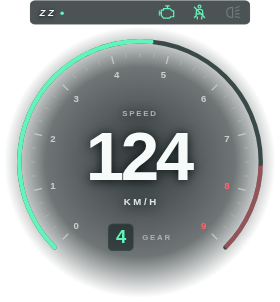
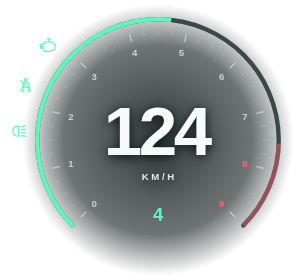
Reduce telemetry overhead and simplify dial layout
Combine RPM and speed into one 100-ms update, remove the separate fast worker, and keep browser interpolation. Reduce belt blocking to one native per frame with shared vehicle validation. Place unboxed icons along the dial and remove branding and captions.

diff --git a/web/style.css b/web/style.css
@@ -19,18 +19,19 @@ html, body { margin: 0; width: 100%; height: 100%; overflow: hidden; background:
 body { user-select: none; }
 [hidden] { display: none !important; }
 .icon-library { position: absolute; width: 0; height: 0; overflow: hidden; }
-.hud { position: fixed; right: calc(var(--right) + var(--safe-x)); bottom: calc(var(--bottom) + var(--safe-y)); width: 320px; height: 345px; transform: scale(calc(var(--scale) * .875)); transform-origin: bottom right; pointer-events: none; font-variant-numeric: tabular-nums; }
-.status-row { position: absolute; inset: 0 34px auto; height: 28px; padding: 0 10px; display: flex; justify-content: space-between; align-items: center; background: #071012b8; border: 1px solid #b9d1ca12; border-radius: 6px; }
-.wordmark { font-size: 11px; font-weight: 800; font-style: italic; letter-spacing: 3px; text-shadow: 0 1px 5px #000; }
-.wordmark-dot { display: inline-block; width: 4px; height: 4px; margin-left: 5px; background: var(--accent); border-radius: 50%; vertical-align: middle; }
-.indicators { display: flex; align-items: center; gap: 17px; }
-.indicator { display: flex; color: #82918e; opacity: .65; }
+.hud { position: fixed; right: calc(var(--right) + var(--safe-x)); bottom: calc(var(--bottom) + var(--safe-y)); width: 340px; height: 320px; transform: scale(calc(var(--scale) * .875)); transform-origin: bottom right; pointer-events: none; font-variant-numeric: tabular-nums; }
+.indicators { position: absolute; inset: 0; }
+.indicator { position: absolute; display: flex; color: #82918e; opacity: .65; }
+/* Unboxed icons follow the outside of the left arc; positions stay fixed on bikes. */
+#engine { left: 25px; top: 42px; }
+#belt { left: -1px; top: 88px; }
+#lights { left: -10px; top: 140px; }
 .indicator svg { width: 20px; height: 20px; fill: none; stroke: currentColor; stroke-width: 1.7; stroke-linecap: round; stroke-linejoin: round; }
 .indicator.active { color: var(--accent); opacity: 1; }
 #engine.active { color: #62f5bb; }
 .indicator.warning { color: var(--warning); opacity: 1; }
 .indicator.high { color: #78baff; opacity: 1; }
-.instrument { position: absolute; top: 25px; left: 0; width: 320px; height: 320px; }
+.instrument { position: absolute; top: 0; left: 20px; width: 320px; height: 320px; }
 .dial { display: block; width: 100%; height: 100%; overflow: visible; }
 .arc-track { stroke: #203331; stroke-opacity: .85; stroke-width: 5; stroke-linecap: round; }
 .red-zone { stroke: var(--danger); stroke-opacity: .45; stroke-width: 5; }
@@ -41,12 +42,11 @@ body { user-select: none; }
 .tick.major { stroke-opacity: .65; stroke-width: 1.5; }
 .tick-label { fill: #c3d3ce; font-size: 11px; font-weight: 600; text-anchor: middle; dominant-baseline: central; }
 .tick-label.red { fill: var(--danger); }
-.speed-block { position: absolute; top: 93px; width: 100%; text-align: center; text-shadow: 0 2px 12px #071012; }
-.overline { color: var(--muted); font-size: 9px; letter-spacing: 2px; font-weight: 600; }
+.speed-block { position: absolute; top: 108px; width: 100%; text-align: center; text-shadow: 0 2px 12px #071012; }
 .speed { margin: 1px 0 0; height: 82px; line-height: 82px; font-size: 79px; font-weight: 700; letter-spacing: -4px; padding-right: 4px; }
 .unit { display: block; font-size: 11px; font-weight: 600; letter-spacing: 3px; color: #dce8e4; margin-top: 5px; padding-left: 3px; }
-.gear-block { position: absolute; top: 230px; width: 100%; display: flex; align-items: center; justify-content: center; gap: 9px; }
-.gear { font-size: 21px; font-weight: 600; line-height: 30px; min-width: 30px; text-align: center; color: var(--accent); border: 1px solid #57736766; border-radius: 6px; background: #07151288; }
+.gear-block { position: absolute; top: 230px; width: 100%; display: flex; align-items: center; justify-content: center; }
+.gear { font-size: 21px; font-weight: 600; line-height: 30px; min-width: 30px; text-align: center; color: var(--accent); }
 
 
 .indicator.damaged { color: var(--danger); opacity: 1; }

diff --git a/web/index.html b/web/index.html
@@ -15,16 +15,12 @@
   </svg>
 
   <main id="hud" class="hud" hidden aria-label="Vehicle instruments">
-    <div class="status-row">
-      <span class="wordmark">ZZ<span class="wordmark-dot"></span></span>
-      <div id="indicators" class="indicators">
-        <span id="engine" class="indicator" role="img" aria-label="Engine off" title="Engine"><svg><use href="#icon-engine"/></svg></span>
-        <span id="belt" class="indicator" role="img" aria-label="Seatbelt unfastened" title="Seatbelt"><svg><use href="#icon-belt"/></svg></span>
-        <span id="lights" class="indicator" role="img" aria-label="Lights off" title="Lights"><svg><use href="#icon-light"/></svg></span>
-      </div>
-    </div>
-
     <div class="instrument">
+      <div id="indicators" class="indicators">
+        <span id="engine" class="indicator" role="img" aria-label="Engine off"><svg><use href="#icon-engine"/></svg></span>
+        <span id="belt" class="indicator" role="img" aria-label="Seatbelt unfastened"><svg><use href="#icon-belt"/></svg></span>
+        <span id="lights" class="indicator" role="img" aria-label="Lights off"><svg><use href="#icon-light"/></svg></span>
+      </div>
       <svg class="dial" viewBox="0 0 320 320" aria-hidden="true">
         <defs><radialGradient id="dial-shade"><stop offset="0" stop-color="#071012" stop-opacity=".82"/><stop offset=".7" stop-color="#071012" stop-opacity=".58"/><stop offset="1" stop-color="#071012" stop-opacity="0"/></radialGradient></defs>
         <circle cx="160" cy="160" r="155" fill="url(#dial-shade)"/>
@@ -37,11 +33,10 @@
         <g id="ticks"></g>
       </svg>
       <div class="speed-block">
-        <span class="overline">SPEED</span>
         <div id="speed" class="speed">0</div>
         <span id="unit" class="unit">KM/H</span>
       </div>
-      <div class="gear-block"><span id="gear" class="gear">N</span><span class="overline">GEAR</span></div>
+      <div class="gear-block"><span id="gear" class="gear">N</span></div>
     </div>
 
   </main>

diff --git a/tests/test_ui.py b/tests/test_ui.py
@@ -308,7 +308,7 @@ class HudTests(unittest.TestCase):
         finally:
             outside.close()
 
-    def test_original_status_row_reflects_vehicle_states(self):
+    def test_unboxed_side_icons_reflect_vehicle_states(self):
         self.send(action="visibility", visible=True)
         self.send(action="telemetry", engine=True, engineWarning=False, beltAvailable=True, belt=True, lights=0)
         self.assertTrue(self.page.locator("#indicators").is_visible())
@@ -327,7 +327,7 @@ class HudTests(unittest.TestCase):
         box = self.page.locator("#hud").bounding_box()
         self.assertLess(box["width"], 300)
         self.assertLess(box["height"], 330)
-        self.assertEqual(self.page.locator(".wordmark").count(), 1)
+        self.assertEqual(self.page.locator(".wordmark, .status-row, .overline").count(), 0)
         self.assertEqual(self.page.locator(".rpm-caption, .fuel, #rpm-value").count(), 0)
         self.assertEqual(self.page.locator(".tick-label").count(), 10)
 
@@ -421,8 +421,18 @@ class HudTests(unittest.TestCase):
                 speed = self.page.locator("#speed").bounding_box()
                 gear = self.page.locator(".gear-block").bounding_box()
                 self.assertLess(speed["y"] + speed["height"], gear["y"])
-                icons = self.page.locator("#indicators").bounding_box()
-                self.assertLess(icons["y"] + icons["height"], speed["y"])
+                dial = self.page.locator(".dial").bounding_box()
+                icon_boxes = [self.page.locator("#" + name).bounding_box() for name in ["engine", "belt", "lights"]]
+                self.assertLess(icon_boxes[0]["y"], icon_boxes[1]["y"])
+                self.assertLess(icon_boxes[1]["y"], icon_boxes[2]["y"])
+                self.assertGreater(icon_boxes[0]["x"], icon_boxes[1]["x"])
+                self.assertGreater(icon_boxes[1]["x"], icon_boxes[2]["x"])
+                for icon in icon_boxes:
+                    self.assertGreaterEqual(icon["x"], box["x"])
+                    self.assertLess(icon["x"] + icon["width"], dial["x"] + dial["width"] / 2)
+                for selector in ["#indicators", ".gear", "#engine", "#belt", "#lights"]:
+                    css = self.page.locator(selector).evaluate("e => {const s=getComputedStyle(e);return [s.backgroundColor,s.borderTopWidth]}")
+                    self.assertEqual(css, ["rgba(0, 0, 0, 0)", "0px"])
 
 
 

diff --git a/PERFORMANCE.md b/PERFORMANCE.md
@@ -1,53 +1,45 @@
-# zz-speedomter 1.3.0 review
+# zz-speedomter 1.4.0 performance review
+
+## Changes prompted by the reported 0.14-ms cost
+
+Version 1.3.0 added an independent 16-ms RPM worker to prioritize smoothness. Version 1.4.0 removes it. One loop now reads RPM, speed and gear every 100 ms and combines changes into one telemetry packet. Browser interpolation still draws intermediate arc positions. Half-percent RPM precision avoids tiny idle fluctuations triggering messages.
+
+The seatbelt frame loop now contains only the required `DisableControlAction` call. Vehicle, seat and death validation use the shared vehicle poll. Forced exits or vehicle changes may retain exit suppression until that poll, up to 100 ms by default. Normal unbuckling stops the loop immediately on its next iteration.
 
 ## Verified locally
 
-- **63 Lua checks**, running the real client script in Lua 5.4 with deterministic scheduling and mocked FiveM natives.
-- **22 Chromium tests**, running the actual NUI and its message protocol.
+- **65 Lua checks** execute the client script with real Lua 5.4 and mocked FiveM natives.
+- **22 Chromium tests** exercise the actual UI, including smooth interpolation, side-icon placement, absence of boxes/captions, engine damage colors and embedded canvas transparency.
 - JavaScript syntax and Git whitespace checks.
-- Embedded-browser pixel regression: no opaque grey layer before, during, or after HUD visibility.
-- Visual inspection and recorded RPM motion use browser renders with mocked data, not GTA screenshots.
+- Preview images use mocked telemetry, not GTA screenshots.
 
-## Work budget
+| Work | Version 1.3.0 | Version 1.4.0 |
+| --- | --- | --- |
+| Default RPM reads over 10 simulated seconds | 625 | 100 (84% fewer) |
+| Separate RPM entity checks | One per RPM iteration | None |
+| Telemetry messages when RPM and speed keep changing | Separate RPM and main packets | At most one per 100-ms tick |
+| Active telemetry workers | Two | One |
+| Belt worker native calls per frame | Two | One |
+| Light/health polling | Every 500 ms | Every 500 ms |
+| Fuel work | None | None |
 
-| State | Verified behavior |
-| --- | --- |
-| On foot | One vehicle-detection loop, 750-ms sleeps, no RPM or fuel reads |
-| Visible vehicle | Independent 100-ms speed/gear/eligibility and 16-ms RPM workers |
-| Health and lights | 500-ms polling; engine running state checked by the 100-ms loop |
-| 10-second unchanged simulation | 100 speed reads, 625 RPM reads, 20 light reads, zero fuel reads and no repeated telemetry messages |
-| Moving RPM | 0.01-percent detail, sent as RPM-only packets; other fields keep their slower cadence |
-| Hidden/paused/suppressed | Fast RPM sampler exits; browser animation cancels |
-| Temporary invalid vehicle | RPM worker stops safely and restarts after validation |
-| Rapid hide/show | At most one active RPM worker |
-| Fuel and legacy fuel providers | No native calls, provider calls or telemetry fields |
-| Belt exit blocking | Two native calls per frame; no belt worker when unbelted or exit blocking disabled |
-| Vehicle class | Cached per observed vehicle |
-| Parked, engine off | No RPM, reverse-vector or gear reads |
-| Stable lights off / low / high | Equal light polling; no repeated light packets or additional animation |
-| Browser RPM motion | One frame callback, preserving position and velocity across targets |
-| 30 / 60 / 144 Hz simulated frames | Matching progress at equal elapsed time |
-| Settled / hidden / backgrounded | No continuing RPM animation callbacks |
-| Repeated messages/config | No extra DOM writes from duplicate handling; ticks rebuilt only if dial scale changes |
+The 10-second unchanged-state test observes 100 speed reads, 100 RPM reads, 20 light reads and zero repeated telemetry packets. Changing speed and RPM together produces exactly 100 packets over 10 simulated seconds. Lights off, low beams and high beams have the same polling/message behavior in the fixture. These are native-call and message counts, not measured in-game milliseconds.
 
-These are native-call/message counts from simulations, not measured in-game CPU times. The main and RPM workers reuse state and send changes only. The dedicated RPM sampler adds native calls and potentially more local NUI messages than version 1.2.0. This is an intentional smoothness tradeoff, not a claim of lower total CPU time. Game frame scheduling determines the actual cadence. `Config.RpmInterval = 33` or `50` reduces RPM sampling while retaining interpolation.
+On foot, vehicle detection sleeps 750 ms. Hidden/paused/suppressed HUDs skip telemetry reads. Parked vehicles skip reverse-vector reads; engine-off vehicles skip RPM and gear reads. Vehicle class is cached. No belt worker runs while unbelted or when `Seatbelt.blockExit = false`. Old `RpmInterval = 16` configs cannot re-enable the removed worker.
 
-The browser uses exact critically damped motion with a 20-ms spring time scale. Position and velocity continue across new targets. The displayed range is clamped to 0–100 percent; abrupt target changes can retain a small amount of motion before reversing. Once both error and velocity are negligible, the arc snaps to its target and the callback stops. Reduced motion bypasses the animation. Other UI elements are not redrawn by the frame callback.
-
-The seatbelt worker still uses one current-vehicle check and one player exit-control suppression per frame. Main polling handles death and driver eligibility. See the [official native reference](https://github.com/citizenfx/natives/blob/master/PAD/DisableControlAction.md) for the per-frame control requirement. Its native-call budget is reduced from the original five to two; this is not a measured 60% reduction in total resource CPU time.
+Browser motion uses one on-demand frame callback and exact critically damped interpolation. It preserves position and velocity across samples, behaves consistently at 30/60/144 Hz, and stops when settled, hidden or backgrounded. Reduced-motion mode snaps to readings. The dial range remains bounded to 0–100 percent; abrupt target changes can retain a little motion before reversing. Tick marks and unchanged labels are not rewritten every frame.
 
 ## Visual checks
 
-- Detailed dial, speed, gear, status icons and ZZ wordmark retained.
-- Fuel meter, fuel icon, bottom RPM readout and RPM explanation removed from the HTML and CSS.
-- Engine indicator: green when healthy/running; red whenever reported engine health is below 1000; dim when healthy/off. Repair clears red. These semantic colors remain green/red even with a custom dial accent.
-- Approximately 280 × 302 pixels at the default scale; layouts checked from 720p to 4K and scales 0.65–1.5.
-- Normal color scheme, transparent root/body, no browser demo and no full-screen background.
-- Safe-zone placement refreshes after leaving the pause menu.
+Unboxed engine, belt and light icons follow the left side of the dial. SPEED/GEAR captions, ZZ branding, status panel, gear box, fuel and bottom RPM explanation are absent. The engine icon is green when healthy/running, red below full engine health (1000), and dim when healthy/off. Default footprint is about 298 × 280 pixels. Placement is checked from 720p to 4K and scales 0.65–1.5.
 
-## Requires a FiveM client
+The transparent root/body and normal color scheme remain. Pixel checks verify that the NUI does not paint a grey screen over the game. No browser demo is shipped.
 
-GTA/FiveM is not available in this cloud machine. Real native costs, frame time, other HUD interactions and in-game day/night readability remain unmeasured. Test acceleration, shift RPM drops, braking, reverse, engine start/stop, damage/repair, lights, pause/resume, seatbelt exit blocking, vehicle changes and resource restart. Use `resmon 1` to measure the deliberate high-rate RPM cost on your client; no universal 0.00-ms or fixed FPS guarantee is made.
+## In-game measurement still required
+
+The reported 0.14-ms resource time and comparison with qb-hud cannot be reproduced on this cloud machine, which has no GTA/FiveM client. No claim of matching 0.04–0.05 ms is made from mocked tests. Update the client and complete web folder, restart the resource, then compare `resmon 1` with the same car, frame cap and other resources on foot, parked, accelerating, belted and with headlights on. Use `Config.UpdateInterval = 100`; old custom values of 50 double the default telemetry frequency.
+
+Verify shifts, reverse, engine start/stop, damage/repair, pause/resume, seat changes, forced vehicle switches and resource restart. To isolate belt cost, compare `Config.Seatbelt.blockExit = false` with the default. The frame-scoped exit native is documented in the [FiveM native reference](https://github.com/citizenfx/natives/blob/master/PAD/DisableControlAction.md).
 
 ### Sustained headlight CPU increase
 

diff --git a/README.md b/README.md
@@ -4,7 +4,7 @@ A standalone, Forza-inspired FiveM vehicle HUD. No ESX, QBCore, database, npm bu
 
 ![Compact zz-speedomter HUD, rendered with mocked FiveM messages](docs/preview.png)
 
-Version 1.3.0 removes the fuel display and bottom RPM text. The engine icon is green when healthy and running, red when engine health is below 1000, and dim when healthy but switched off. A dedicated fast RPM sampler and critically damped animation prioritize fluid arc motion. The grey-canvas fix and FiveM-only NUI remain.
+Version 1.4.0 prioritizes performance: RPM, speed and gear share one 100-ms telemetry loop and packet, with smooth browser interpolation between samples. Unboxed engine, belt and light icons follow the side of the dial. There is no branding, SPEED/GEAR caption, gear box or fuel display. The engine icon remains green when healthy/running and red when damaged.
 
 See [INSTALL.md](INSTALL.md) for the step-by-step server owner's guide and [PERFORMANCE.md](PERFORMANCE.md) for the local optimization and visual review, including what still needs in-game validation.
 
@@ -27,7 +27,7 @@ The folder may have another name; use that name in `ensure` and in integration e
 
 - Digital speed, KM/H or MPH, gear, reverse detection, and normalized RPM arc with a redline state.
 - Green/red engine status, headlights and high-beam indicators. No fuel meter or bottom RPM caption.
-- Optional seatbelt toggle with exit blocking. The status row shows engine, belt, and light states; bikes have no belt indicator.
+- Optional seatbelt toggle with exit blocking. The side icons show engine, belt, and light states; bikes have no belt indicator.
 - Driver-only display by default; hides on foot, on death, in unsupported vehicle classes, and in the pause menu.
 - Safe-zone-aware placement, configurable size and accent color, transparent NUI, and no input focus capture.
 
@@ -42,8 +42,7 @@ Edit `config.lua` and restart the resource to apply configuration changes:
 | `MaxRpm` | `9000` | Estimated RPM tick scale; falls back to 9000 when omitted |
 | `ShowPassenger` | `false` | Also display for passengers |
 | `HideWhenPaused` | `true` | Hide when the pause menu is open |
-| `UpdateInterval` | `100` | Speed, gear and vehicle checks in milliseconds; minimum 50 |
-| `RpmInterval` | `16` | Dedicated RPM sampling in milliseconds; minimum 16; about 60 Hz |
+| `UpdateInterval` | `100` | Combined speed, gear, RPM and vehicle checks in milliseconds; minimum 50 |
 | `IdleInterval` | `750` | Vehicle detection interval on foot |
 | `StatusInterval` | `500` | Engine health and light polling interval |
 | `Classes` | Road classes | Eligible GTA vehicle classes |
@@ -73,13 +72,13 @@ local belted = exports['zz-speedomter']:IsSeatbeltOn()
 
 ## Performance and validation
 
-Speed, gear, engine-running state and vehicle eligibility update every 100 ms by default. Engine health and lights update every 500 ms. A separate RPM worker samples every 16 ms while the HUD is visible, retaining 0.01-percent RPM detail and sending only changes. It stops on foot, while paused or suppressed, and when its vehicle disappears. There is no fuel polling or fuel-provider integration. Old fuel config fields are ignored.
+Speed, gear, RPM, engine-running state and vehicle eligibility share a 100-ms loop. Engine health and lights update every 500 ms. Each active tick sends at most one telemetry packet, containing only changed fields. RPM is rounded to half-percent increments to avoid tiny idle jitter. Hidden, paused or suppressed HUDs do not sample telemetry. There is no fuel integration or independent RPM worker; legacy `RpmInterval` and fuel settings are ignored.
 
-The browser updates the arc through one on-demand `requestAnimationFrame` callback. Critically damped motion preserves both drawn position and velocity when readings change, so retargeting does not restart movement. It is time-based, bounded to the dial range, and stops once settled or hidden. Reduced-motion mode snaps directly to readings. Tick marks are built once and only rebuilt when `MaxRpm` changes.
+The browser retains smooth, time-based arc interpolation through one on-demand `requestAnimationFrame` callback. Critically damped motion preserves position and velocity as new samples arrive. Animation stops when settled or hidden. Reduced-motion mode snaps directly to readings. Tick marks are rebuilt only when `MaxRpm` changes.
 
-This version deliberately spends more CPU on RPM sampling to prioritize smoothness. Actual sampling depends on game frame scheduling. Increase `Config.RpmInterval` to 33 or 50 for fewer RPM reads; browser interpolation remains active. Other telemetry keeps its independent slower polling rate. No fixed `resmon` number or FPS is promised.
+Compared with 1.3.0, default RPM reads fall from 625 to 100 in a deterministic 10-second simulation (84% fewer). Separate RPM packets and entity checks are removed. This measures work removed, not a percentage reduction in real CPU time. `Config.UpdateInterval = 100` is the recommended setting; lower values increase sampling and messaging cost.
 
-The seatbelt frame worker uses two native calls per frame, down from five. Vehicle class is cached, and stationary vehicles skip reverse-vector reads. For a belt indicator without per-frame exit blocking, use `Config.Seatbelt.blockExit = false`; players can then exit while belted. See `PERFORMANCE.md` for native-call checks and how to capture sustained headlight-related CPU increases with FiveM's profiler.
+The optional belt worker now calls only `DisableControlAction` per frame. Vehicle, seat and death validation share the main poll; a forced exit or vehicle switch releases the belt within one active polling interval (100 ms by default). There is no frame worker when unbelted. For an indicator without exit blocking, set `Config.Seatbelt.blockExit = false`. See `PERFORMANCE.md` for the work budget and in-game profiler checks.
 
 The NUI startup handshake has a two-second request timeout and up to four retries, with increasing delays. Those timers stop after success; they are separate from vehicle updates.
 
@@ -89,7 +88,7 @@ No `0.00 ms` or fixed FPS claim is made. Actual CPU usage depends on your server
 
 The NUI activates only when FiveM provides `GetParentResourceName`. Opening the HTML in a normal browser, including with `?preview`, stays blank. There are no full-screen presentation backgrounds, forms, or demo controls. Tests mock the FiveM interface externally; that harness is not part of the runtime resource.
 
-The default footprint is approximately 280 × 302 pixels, smaller than the original 320 × 374. Only local dial shading and the status row paint a background. The page uses a normal color scheme and transparent root/body so embedded Chromium does not substitute an opaque dark canvas.
+The default footprint is approximately 298 × 280 pixels, including the side icons. Only local dial shading paints a background; icons and gear have no boxes. The page uses a normal color scheme and transparent root/body so embedded Chromium does not substitute an opaque dark canvas.
 
 ### Automated checks
 

diff --git a/INSTALL.md b/INSTALL.md
@@ -65,11 +65,13 @@ If you already use a speedometer, disable its speedometer component in that reso
 
 ## Updating from an older version
 
-Replace `fxmanifest.lua`, `client.lua`, and the **whole `web` folder** together, then run `restart zz-speedomter`. Keep your custom `config.lua`; the detailed dial now renders at approximately 280 × 302 with `Config.Scale = 1.0`. Set `Config.Scale = 0.85` if you want it smaller still. Optional `Config.MaxRpm = 9000` controls the RPM tick labels; older configs without this field use 9000 automatically.
+Replace `fxmanifest.lua`, `client.lua`, and the **whole `web` folder** together, then run `restart zz-speedomter`. Keep your custom `config.lua`; the detailed dial now renders at approximately 298 × 280 with `Config.Scale = 1.0`. Set `Config.Scale = 0.85` if you want it smaller still. Optional `Config.MaxRpm = 9000` controls the RPM tick labels; older configs without this field use 9000 automatically.
 
 Version 1.1.0 removes the dark color scheme responsible for the grey embedded-browser canvas. Do not mix old CSS or HTML with the updated files. If the previous screen persists after restarting, reconnect and confirm that only the updated copy of the resource is running.
 
-Version 1.3.0 removes fuel and the bottom RPM caption, turns engine damage red, and adds a dedicated 16-ms RPM sampler. Update `client.lua` as well as the UI. Older configs use the new RPM rate automatically. Add `Config.RpmInterval = 33` or `50` if you prefer lower RPM sampling cost; the other polling settings are independent. Old fuel config fields are safely ignored.
+Version 1.4.0 combines RPM, speed and gear updates into one loop, removing the expensive 16-ms RPM sampler from 1.3.0. Keep `Config.UpdateInterval = 100` for the recommended performance setting. Old `Config.RpmInterval` and fuel settings are ignored, so keeping your custom config cannot accidentally restore the fast worker. The browser still interpolates the RPM arc. SPEED/GEAR labels, ZZ branding and boxes are removed; icons follow the side of the dial.
+
+Seatbelt exit blocking uses one native per frame. Forced exits, vehicle changes and death clear belt state on the next vehicle poll, within 100 ms by default. To retain the belt indicator with no frame worker, set `Config.Seatbelt.blockExit = false`; normal vehicle exit will then be allowed while belted.
 
 ## Troubleshooting
 
